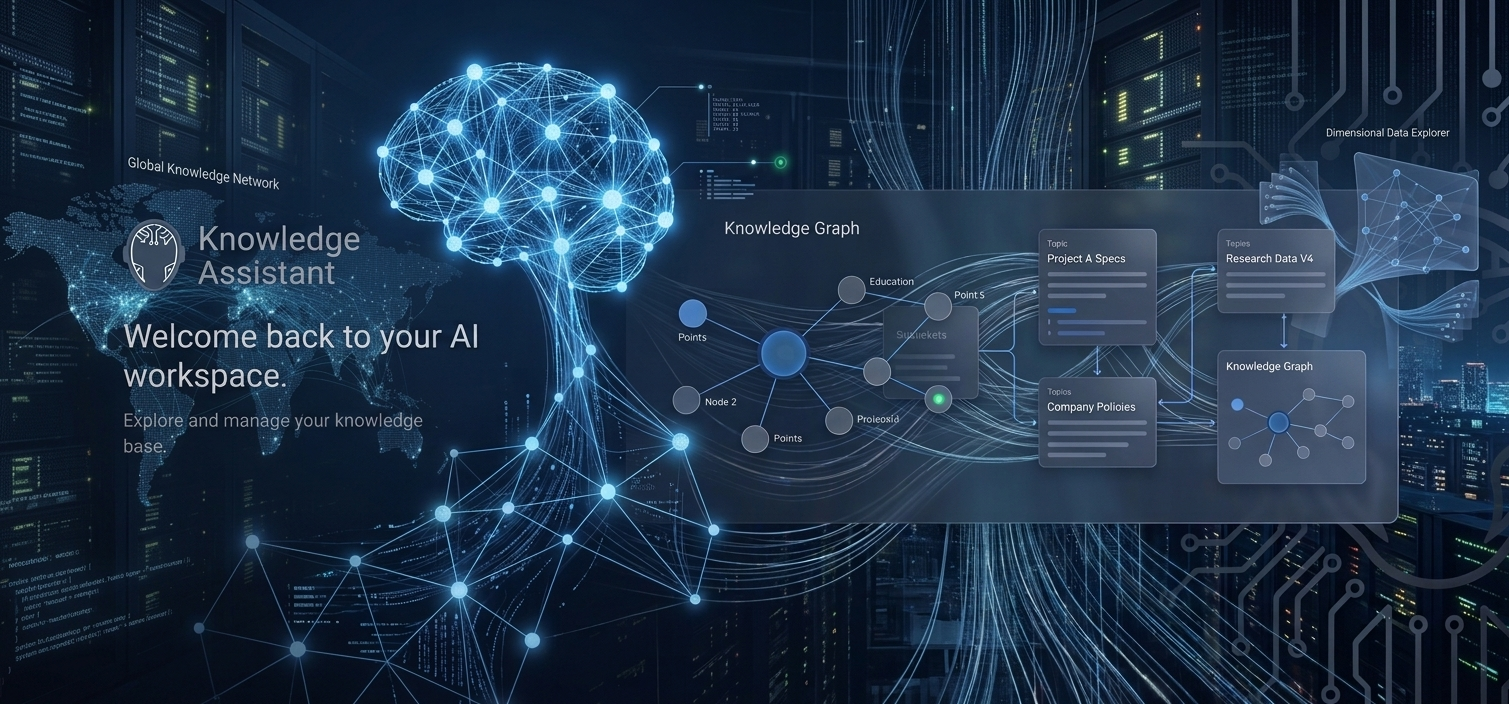
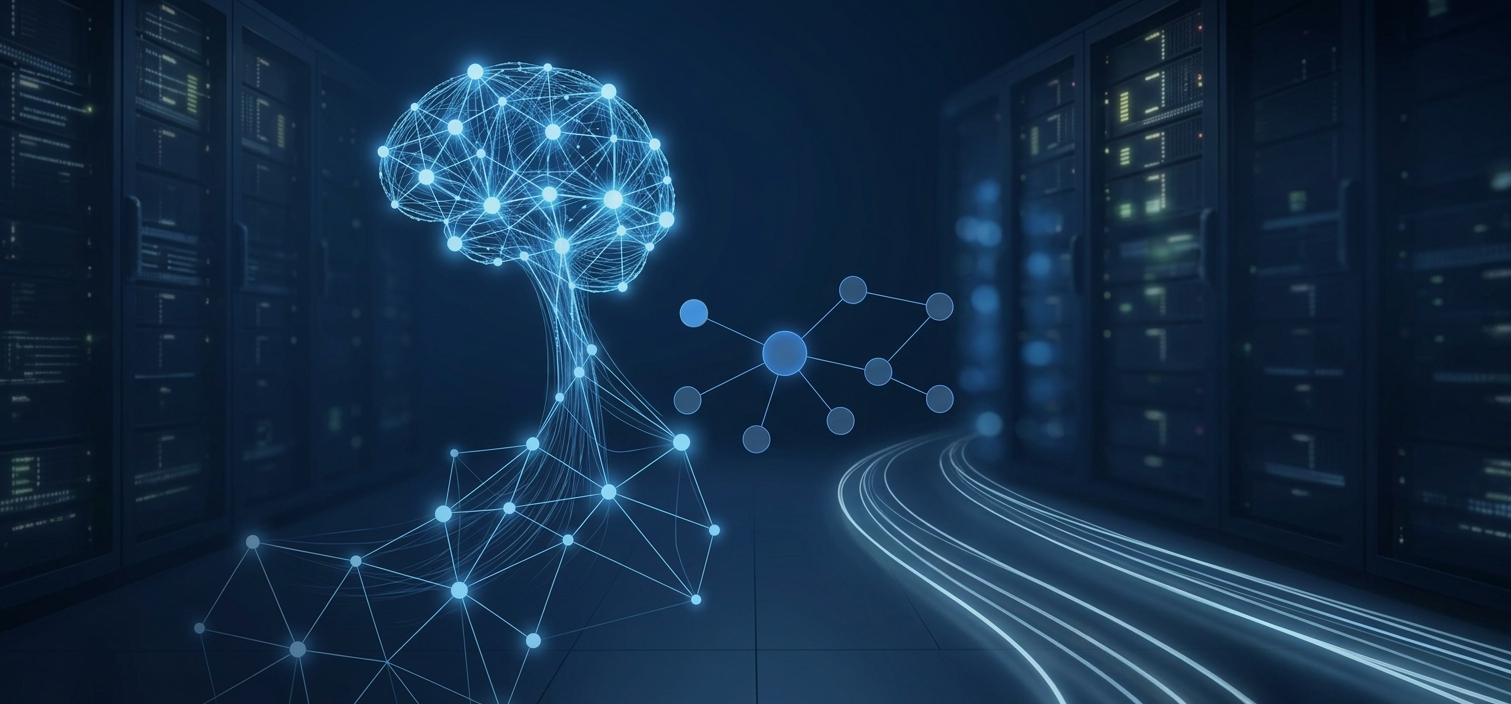
Added more email endpoints, get by id, get by user id

diff --git a/KnowledgeAssistant.UI/Components/Layout/Modal.razor.css b/KnowledgeAssistant.UI/Components/Layout/Modal.razor.css
@@ -1,1 +1,4 @@
-
+::deep .mud-icon-button-label
+{
+    color: white;
+}

diff --git a/KnowledgeAssistant.Application/Services/EmailService.cs b/KnowledgeAssistant.Application/Services/EmailService.cs
@@ -1,5 +1,8 @@
 using KnowledgeAssistant.Application.Data.Context;
+using KnowledgeAssistant.Application.DTOs.Emails;
+using KnowledgeAssistant.Application.DTOs.Users;
 using KnowledgeAssistant.Application.Entities.Emails;
+using KnowledgeAssistant.Application.Entities.Users;
 using Microsoft.EntityFrameworkCore;
 using Microsoft.Extensions.Configuration;
 using Resend;
@@ -11,6 +14,8 @@ namespace KnowledgeAssistant.Application.Services
     {
         Task QueueEmailAsync(int userId, string to, string subject, string body, bool isHtml = true);
         Task SendEmailAsync(int emailId, CancellationToken cancellationToken = default);
+        Task<EmailResponse?> GetEmailByIdAsync(int emailId);
+        Task<List<EmailResponse>> GetEmailsByUserIdAsync(int userId);
     }
 
     public class EmailService : IEmailService
@@ -21,7 +26,6 @@ namespace KnowledgeAssistant.Application.Services
         private readonly bool _rabbitMQEnabled;
         private IResend _resendService;
         
-
         public EmailService(KnowledgeContext context, IRabbitMQService rabbitMQService, IResend resendService, IConfiguration configuration)
         {
             _configuration = configuration;
@@ -96,6 +100,32 @@ namespace KnowledgeAssistant.Application.Services
 
                 await _context.SaveChangesAsync(cancellationToken);
             }
+        }
+
+        public async Task<EmailResponse?> GetEmailByIdAsync(int emailId)
+        {
+            var email = await _context.Emails
+                .AsNoTracking()
+                .Select(x => new EmailResponse
+                {
+                    Id = x.Id,
+                }).FirstOrDefaultAsync(x => x.Id == emailId);
+
+            return email;
+        }
+
+        public async Task<List<EmailResponse>> GetEmailsByUserIdAsync(int userId)
+        {
+            var emails = await _context.Emails
+                .AsNoTracking()
+                .Where(x => x.UserId == userId)
+                .Select(x => new EmailResponse
+                {
+                    Id = x.Id,
+                    UserId = x.UserId,
+                }).ToListAsync();
+
+            return emails;
         }
     }
 }

diff --git a/KnowledgeAssistant.API/Controllers/EmailController.cs b/KnowledgeAssistant.API/Controllers/EmailController.cs
@@ -1,0 +1,63 @@
+using KnowledgeAssistant.Application.DTOs.API;
+using KnowledgeAssistant.Application.Services;
+using Microsoft.AspNetCore.Authorization;
+using Microsoft.AspNetCore.Mvc;
+
+namespace KnowledgeAssistant.API.Controllers
+{
+    [ApiController]
+    [Route("[controller]")]
+    public class EmailController : ControllerBase
+    {
+        private readonly IEmailService _emailService;
+
+        public EmailController(IEmailService EmailService)
+        {
+            _emailService = EmailService;
+        }
+  
+        [HttpGet("GetById/{Id}")]
+        [Authorize]
+        public async Task<ActionResult<ApiResult>> GetEmail(int Id)
+        {
+            var Email = await _emailService.GetEmailByIdAsync(Id);
+
+            if (Email is null)
+            {
+                return NotFound(new ApiResult()
+                {
+                    IsSuccessful = false,
+                    Message = "Email does not exist."
+                });
+            }
+
+            return Ok(new ApiResult()
+            {
+                IsSuccessful = true,
+                Data = Email
+            });
+        }
+
+        [HttpGet("GetByUserId/{Id}")]
+        [Authorize]
+        public async Task<ActionResult<ApiResult>> GetEmailsByUserId(int userId)
+        {
+            var Emails = await _emailService.GetEmailsByUserIdAsync(userId);
+
+            if (!Emails.Any())
+            {
+                return NotFound(new ApiResult()
+                {
+                    IsSuccessful = false,
+                    Message = "No emails found for user"
+                });
+            }
+
+            return Ok(new ApiResult()
+            {
+                IsSuccessful = true,
+                Data = Emails
+            });
+        }
+    }
+}

diff --git a/KnowledgeAssistant.Application/DTOs/Emails/EmailResponse.cs b/KnowledgeAssistant.Application/DTOs/Emails/EmailResponse.cs
@@ -1,0 +1,23 @@
+using KnowledgeAssistant.Application.Entities.Emails;
+using System;
+using System.Collections.Generic;
+using System.Text;
+
+namespace KnowledgeAssistant.Application.DTOs.Emails
+{
+    public class EmailResponse
+    {
+        public int Id { get; set; }
+        public int UserId { get; set; }
+        public string To { get; set; } = string.Empty;
+        public string Subject { get; set; } = string.Empty;
+        public string Body { get; set; } = string.Empty;
+        public bool IsHtml { get; set; }
+        public EmailStatus Status { get; set; }
+        public DateTime CreatedAt { get; set; }
+        public DateTime? SentAt { get; set; }
+        public DateTime? FailedAt { get; set; }
+        public string? ErrorMessage { get; set; }
+        public int RetryCount { get; set; }
+    }
+}

diff --git a/KnowledgeAssistant.API/Controllers/UserController.cs b/KnowledgeAssistant.API/Controllers/UserController.cs
@@ -11,7 +11,6 @@ namespace KnowledgeAssistant.API.Controllers
 {
     [ApiController]
     [Route("[controller]")]
-    [EnableRateLimiting("globallimit")]
     public class UserController : ControllerBase
     {
         private readonly IUserService _userService;
